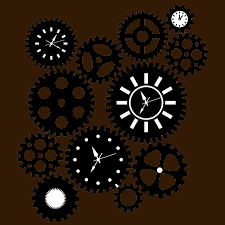
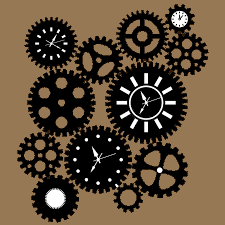
picture changes and color change

diff --git a/training/index.html b/training/index.html
@@ -3,20 +3,53 @@
 <head>
     <meta charset="UTF-8">
     <meta name="viewport" content="width=device-width, initial-scale=1.0">
-    <link rel="stylesheet" href="./assets/reset.css">
+    <link rel="stylesheet" href="../assets/reset.css">
     <link rel="preconnect" href="https://fonts.googleapis.com">
     <link rel="preconnect" href="https://fonts.gstatic.com" crossorigin>
     <link href="https://fonts.googleapis.com/css2?family=Nanum+Myeongjo&display=swap" rel="stylesheet">
-    <link rel="stylesheet" href="./assets/styles.css":>
-    <title>Perception Personal Training </title></head>
+    <link rel="stylesheet" href="../assets/styles.css":>
+    <title>Perception Personal Training </title>
+</head>
 <body>
-    <nav>
-        <ul>
-           <a href="./index.html" class="anchor">Home</a>
-           <a href="./training/index.html" class="anchor">Training</a>
-           <a href="./contactme/index.html" class="anchor">Contact Us</a>
-       </ul>
-       </nav>
+    <header>
+        <div id="images">
+            <!-- <img src="./assets/images/Shoulder left.jpg" id="shoulderleft"> -->
+            <!-- <img src="./assets/images/Shoulder right.jpg" id="shoulderright"> -->
+            <img src="../assets/images/TrainingLogoCircle.png" id="logo">
+        </div>   
     
+        <nav>
+            <ul>
+                <a href="../index.html" class="nava">Home</a>
+               <a href="../training/index.html" class="nava">Training</a>
+               <a href="../contactme/index.html" class="nava">Contact Us</a>
+               <a href="../aboutus/index.html" class="nava">About Us</a>
+           </ul>
+           </nav>
+    </header>
+
+    <main>
+        <article>
+            <h1>Welcome to Perception</h1>
+            <p> <img src="../assets/images/gearspic.jpg" id="articlepic"> 
+                Perception is more then just a training service. We are a community of people wanting to make a change. 
+                Taking the helm to sail yourself towards improvement can be a tough task. We are here too make the seas a lot smoother. 
+                Take the plunge and let us help guide your future towards happiness and success. Helping you through every chapter of your journey.
+            </p>
+            <a href="../training/index.html" class="articlelink">Learn More</a>
+    
+        </article>
+    </main>
+
+
+
+
+    
+   <footer>
+
+        <img src="../assets/images/newgearsleft.png" id="bottomleft">
+        <img src="../assets/images/gearsrightnew.jpg" id="bottomright">
+    
+    </footer>
 </body>
 </html>

diff --git a/aboutus/index.html b/aboutus/index.html
@@ -3,9 +3,45 @@
 <head>
     <meta charset="UTF-8">
     <meta name="viewport" content="width=device-width, initial-scale=1.0">
-    <title>Perception Personal Training</title>
+    <link rel="stylesheet" href="../assets/reset.css">
+    <link rel="preconnect" href="https://fonts.googleapis.com">
+    <link rel="preconnect" href="https://fonts.gstatic.com" crossorigin>
+    <link href="https://fonts.googleapis.com/css2?family=Nanum+Myeongjo&display=swap" rel="stylesheet">
+    <link rel="stylesheet" href="../assets/styles.css":>
+    <title>Perception Personal Training </title>
 </head>
+
 <body>
-    
+
+<header>
+    <div id="images">
+        <!-- <img src="./assets/images/Shoulder left.jpg" id="shoulderleft"> -->
+        <!-- <img src="./assets/images/Shoulder right.jpg" id="shoulderright"> -->
+        <img src="../assets/images/TrainingLogoCircle.png" id="logo">
+    </div>   
+
+    <nav>
+        <ul>
+            <a href="../index.html" class="nava">Home</a>
+            <a href="./index.html" class="nava">About Us</a>
+           <a href="../training/index.html" class="nava">Training</a>
+           <a href="../contactme/index.html" class="nava">Contact Us</a>
+       </ul>
+       </nav>
+</header>
+
+<main>
+    <article>
+        <h1></h1>
+        <p></p>
+    </article>
+</main>
+
+<footer>
+
+    <img src="../assets/images/newgearsleft.png" id="bottomleft">
+    <img src="../assets/images/gearsrightnew.jpg" id="bottomright">
+
+</footer>
+
 </body>
-</html>

diff --git a/index.html b/index.html
@@ -22,8 +22,10 @@
 
     <nav>
         <ul>
+            <a href="./index.html" class="nava">Home</a>
            <a href="./training/index.html" class="nava">Training</a>
            <a href="./contactme/index.html" class="nava">Contact Us</a>
+           <a href="./aboutus/index.html" class="nava">About Us</a>
        </ul>
        </nav>
 </header>
@@ -42,7 +44,9 @@
 
     <article>
         <h1>What We Offer</h1>
-        <p>Perception is an online membership service that is fully personalized. We give out
+        <p> <img src="./assets/images/kettlebell.jpg" id="articlepic2"> Perception is an online membership service that is fully personalized. 
+            Whatever your goals are, we got you covered.Whether you are completely new, getting back into it, or looking to take 
+            your training to the next level. We are here to guide you in the right direction. 
         </p>
         <a href="./training/index.html" class="articlelink">Look at Training</a>
 
@@ -63,7 +67,7 @@
 <footer>
 
     <img src="./assets/images/newgearsleft.png" id="bottomleft">
-    <img src="./assets/images/gearsrightnew.jpg" id="bottomright">
+    <img src="./assets/images/gearsfooternew.jpg" id="bottomright">
 
 </footer>
     

diff --git a/assets/styles.css b/assets/styles.css
@@ -1,5 +1,5 @@
 body{
-    background-color:rgb(51, 26, 5);
+    background-color:rgb(150, 120, 85);
     text-decoration: none;
     color:white;
     margin:0;
@@ -12,7 +12,9 @@ body{
 header{
     text-align: center;
     display: inline;
-
+}
+nav{
+    text-align: center;
 }
 
 a{
@@ -90,7 +92,7 @@ width:15%;
     width: 15%;
     text-align: center;
     position: relative;
-    /* margin-left: auto; */
+    margin-left: auto;
     margin-right: auto;
     z-index: 0;
 }
@@ -102,7 +104,16 @@ width:15%;
     border-style:solid;
     border-color:  rgba(0, 0, 0, 0.5);
 }
-
+#articlepic2{
+    margin-right:1%;
+    text-align: left;
+    float:left;
+    height:20%;
+    width:20%;
+    border-radius:20px;
+    border-style:solid;
+    border-color:  rgba(0, 0, 0, 0.5);
+}
 .articlelink{
   text-align: right;
   color: white;
@@ -120,14 +131,14 @@ float:right;
 position: relative;
 height:15%;
 width:15%;
-margin-right: -4%;
-margin-bottom: -5%;
+margin-right: -5%;
+margin-bottom: -20%;
 }
 #bottomleft{
 float:left;
 position: relative;
 height:15%;
 width:15%;
-margin-left: -4%;
-margin-bottom: -5%;
+margin-left: -5%;
+margin-bottom: -20%;
 }
